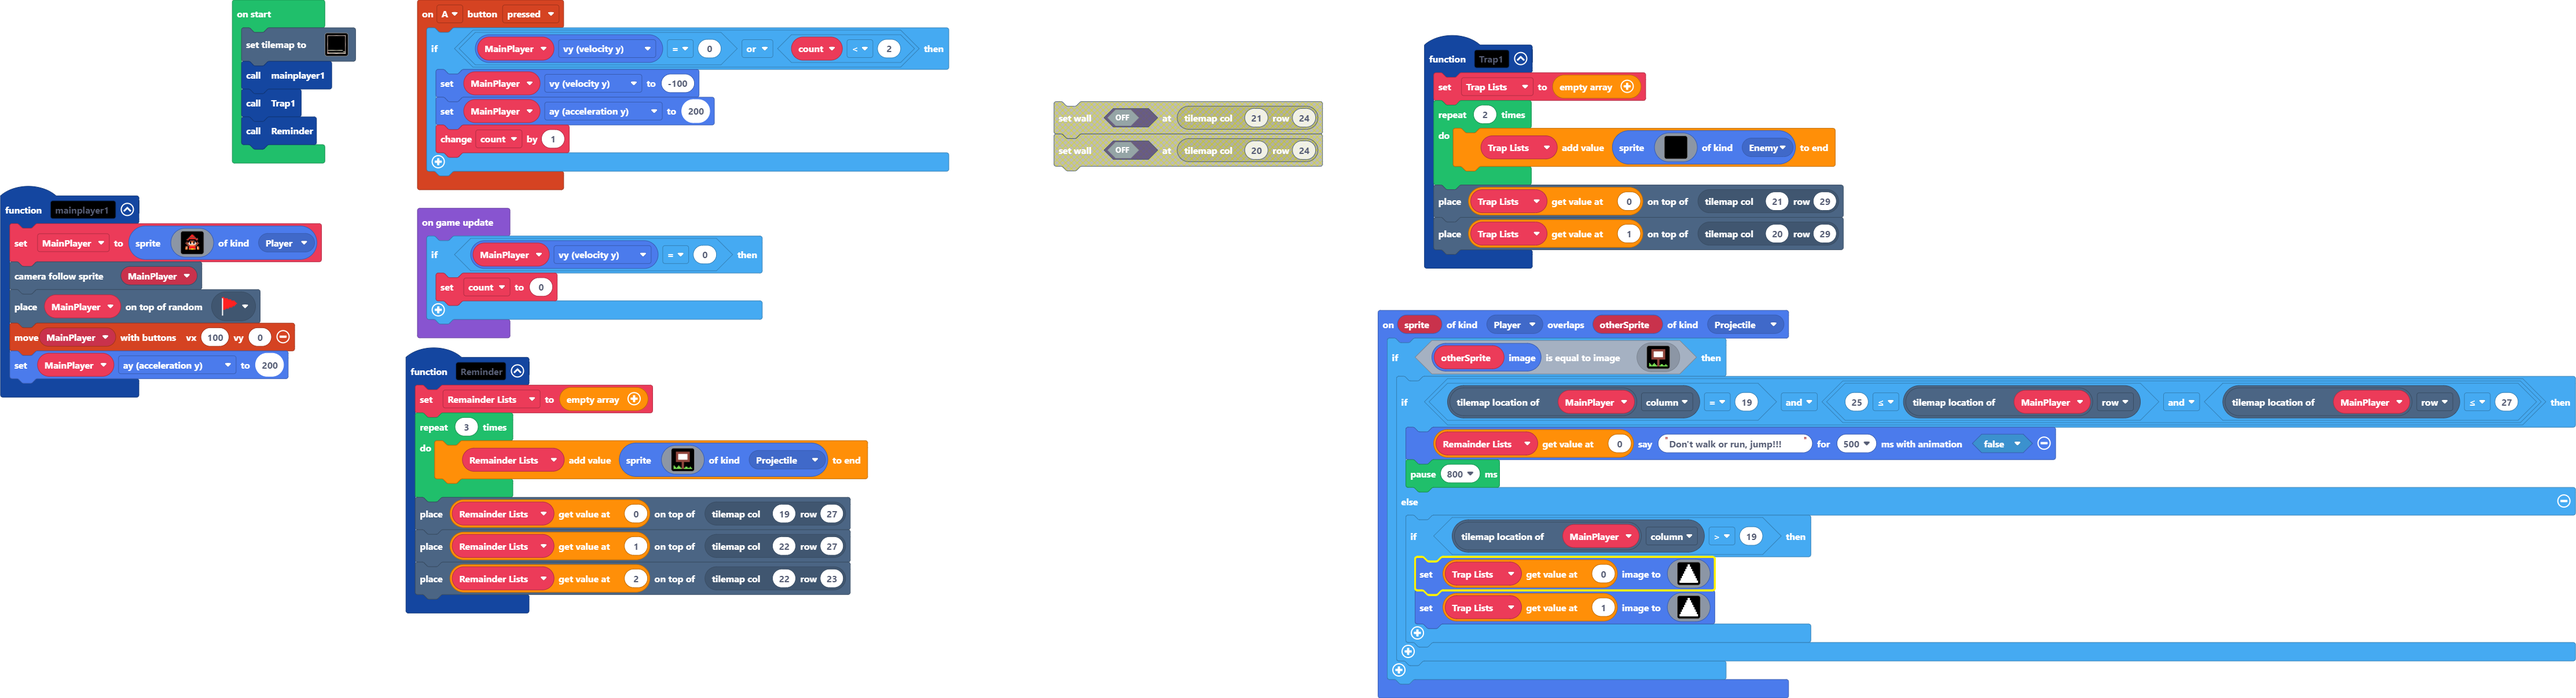
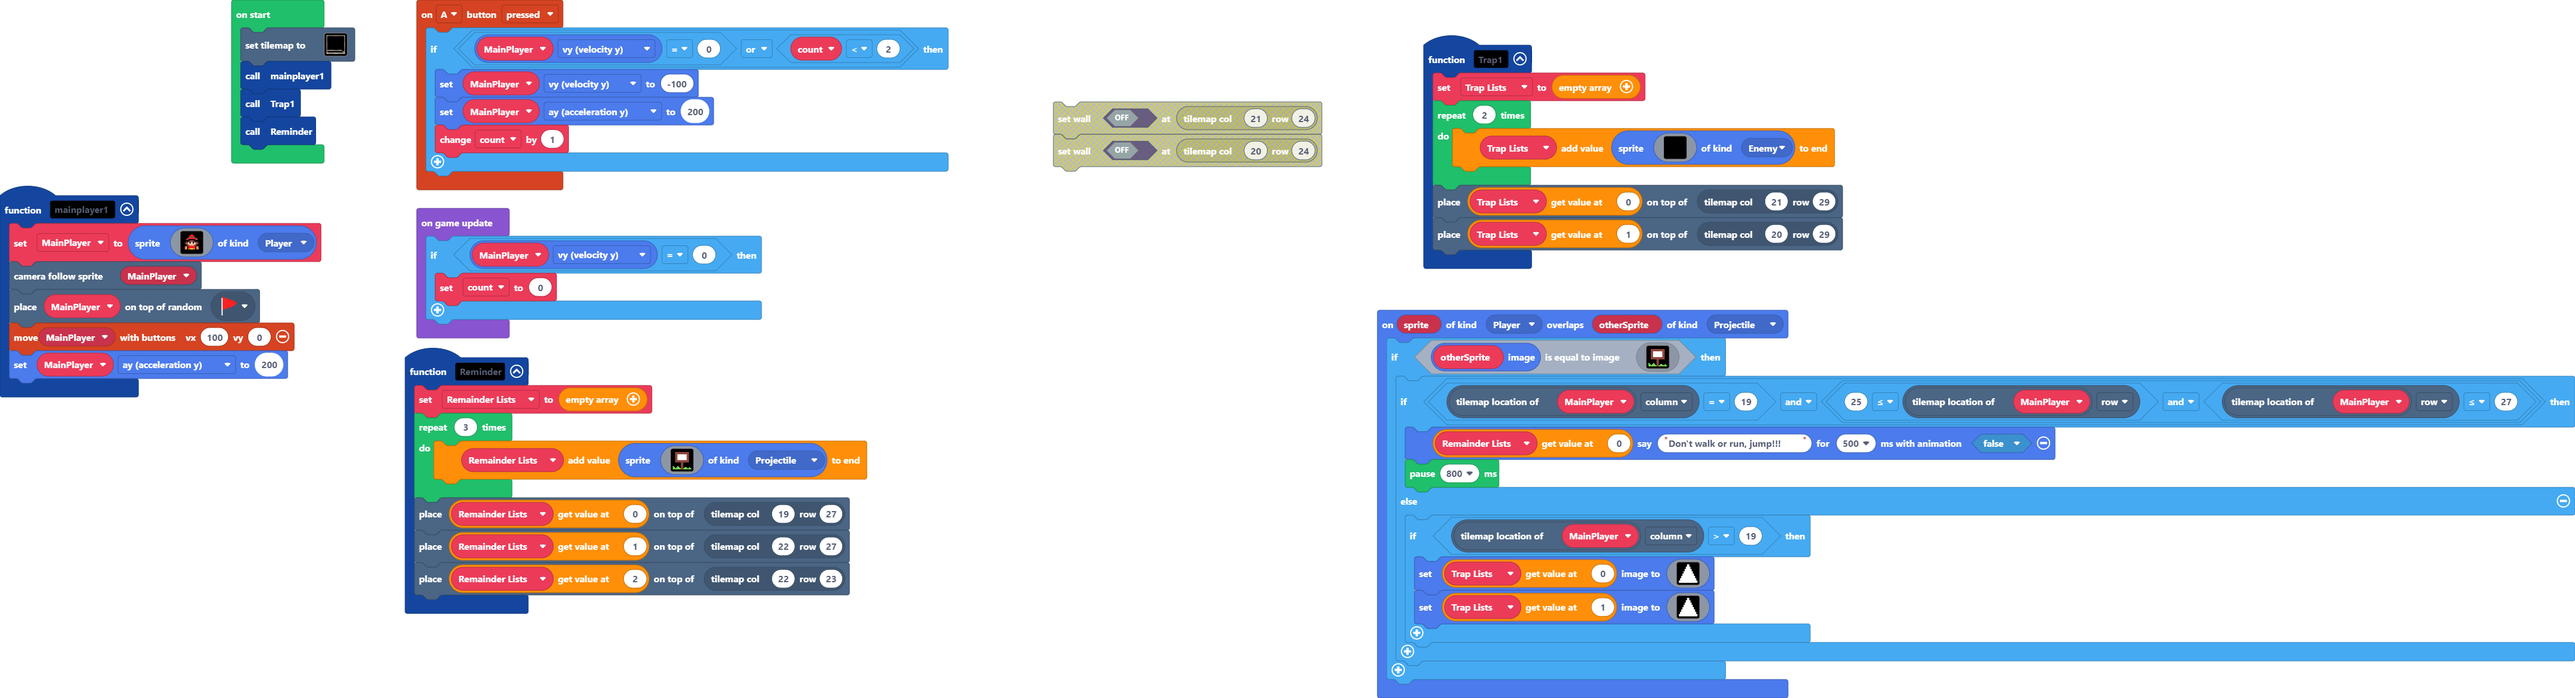
Update main.blocks, main.ts

diff --git a/main.ts b/main.ts
@@ -52,45 +52,46 @@ sprites.onOverlap(SpriteKind.Player, SpriteKind.Projectile, function (sprite, ot
         `)) {
         if (MainPlayer.tilemapLocation().column == 19 && (25 <= MainPlayer.tilemapLocation().row && MainPlayer.tilemapLocation().row <= 27)) {
             Remainder_Lists[0].sayText("Don't walk or run, jump!!!", 500, false)
-        } else if (MainPlayer.tilemapLocation().column > 19 && MainPlayer.tilemapLocation().column < 22) {
-            Trap_Lists[0].setImage(img`
-                . . . . . . . 1 1 . . . . . . . 
-                . . . . . . . 1 1 . . . . . . . 
-                . . . . . . 1 1 1 1 . . . . . . 
-                . . . . . . 1 1 1 1 . . . . . . 
-                . . . . . 1 1 1 1 1 1 . . . . . 
-                . . . . . 1 1 1 1 1 1 . . . . . 
-                . . . . 1 1 1 1 1 1 1 1 . . . . 
-                . . . . 1 1 1 1 1 1 1 1 . . . . 
-                . . . 1 1 1 1 1 1 1 1 1 1 . . . 
-                . . . 1 1 1 1 1 1 1 1 1 1 . . . 
-                . . 1 1 1 1 1 1 1 1 1 1 1 1 . . 
-                . . 1 1 1 1 1 1 1 1 1 1 1 1 . . 
-                . 1 1 1 1 1 1 1 1 1 1 1 1 1 1 . 
-                . 1 1 1 1 1 1 1 1 1 1 1 1 1 1 . 
-                1 1 1 1 1 1 1 1 1 1 1 1 1 1 1 1 
-                1 1 1 1 1 1 1 1 1 1 1 1 1 1 1 1 
-                `)
-            Trap_Lists[1].setImage(img`
-                . . . . . . . 1 1 . . . . . . . 
-                . . . . . . . 1 1 . . . . . . . 
-                . . . . . . 1 1 1 1 . . . . . . 
-                . . . . . . 1 1 1 1 . . . . . . 
-                . . . . . 1 1 1 1 1 1 . . . . . 
-                . . . . . 1 1 1 1 1 1 . . . . . 
-                . . . . 1 1 1 1 1 1 1 1 . . . . 
-                . . . . 1 1 1 1 1 1 1 1 . . . . 
-                . . . 1 1 1 1 1 1 1 1 1 1 . . . 
-                . . . 1 1 1 1 1 1 1 1 1 1 . . . 
-                . . 1 1 1 1 1 1 1 1 1 1 1 1 . . 
-                . . 1 1 1 1 1 1 1 1 1 1 1 1 . . 
-                . 1 1 1 1 1 1 1 1 1 1 1 1 1 1 . 
-                . 1 1 1 1 1 1 1 1 1 1 1 1 1 1 . 
-                1 1 1 1 1 1 1 1 1 1 1 1 1 1 1 1 
-                1 1 1 1 1 1 1 1 1 1 1 1 1 1 1 1 
-                `)
-        } else if (MainPlayer.tilemapLocation().column == 22 && (25 <= MainPlayer.tilemapLocation().row && MainPlayer.tilemapLocation().row <= 27)) {
-            Remainder_Lists[1].sayText("I told you, jump!")
+            pause(800)
+        } else {
+            if (MainPlayer.tilemapLocation().column > 19) {
+                Trap_Lists[0].setImage(img`
+                    . . . . . . . 1 1 . . . . . . . 
+                    . . . . . . . 1 1 . . . . . . . 
+                    . . . . . . 1 1 1 1 . . . . . . 
+                    . . . . . . 1 1 1 1 . . . . . . 
+                    . . . . . 1 1 1 1 1 1 . . . . . 
+                    . . . . . 1 1 1 1 1 1 . . . . . 
+                    . . . . 1 1 1 1 1 1 1 1 . . . . 
+                    . . . . 1 1 1 1 1 1 1 1 . . . . 
+                    . . . 1 1 1 1 1 1 1 1 1 1 . . . 
+                    . . . 1 1 1 1 1 1 1 1 1 1 . . . 
+                    . . 1 1 1 1 1 1 1 1 1 1 1 1 . . 
+                    . . 1 1 1 1 1 1 1 1 1 1 1 1 . . 
+                    . 1 1 1 1 1 1 1 1 1 1 1 1 1 1 . 
+                    . 1 1 1 1 1 1 1 1 1 1 1 1 1 1 . 
+                    1 1 1 1 1 1 1 1 1 1 1 1 1 1 1 1 
+                    1 1 1 1 1 1 1 1 1 1 1 1 1 1 1 1 
+                    `)
+                Trap_Lists[1].setImage(img`
+                    . . . . . . . 1 1 . . . . . . . 
+                    . . . . . . . 1 1 . . . . . . . 
+                    . . . . . . 1 1 1 1 . . . . . . 
+                    . . . . . . 1 1 1 1 . . . . . . 
+                    . . . . . 1 1 1 1 1 1 . . . . . 
+                    . . . . . 1 1 1 1 1 1 . . . . . 
+                    . . . . 1 1 1 1 1 1 1 1 . . . . 
+                    . . . . 1 1 1 1 1 1 1 1 . . . . 
+                    . . . 1 1 1 1 1 1 1 1 1 1 . . . 
+                    . . . 1 1 1 1 1 1 1 1 1 1 . . . 
+                    . . 1 1 1 1 1 1 1 1 1 1 1 1 . . 
+                    . . 1 1 1 1 1 1 1 1 1 1 1 1 . . 
+                    . 1 1 1 1 1 1 1 1 1 1 1 1 1 1 . 
+                    . 1 1 1 1 1 1 1 1 1 1 1 1 1 1 . 
+                    1 1 1 1 1 1 1 1 1 1 1 1 1 1 1 1 
+                    1 1 1 1 1 1 1 1 1 1 1 1 1 1 1 1 
+                    `)
+            }
         }
     }
 })
